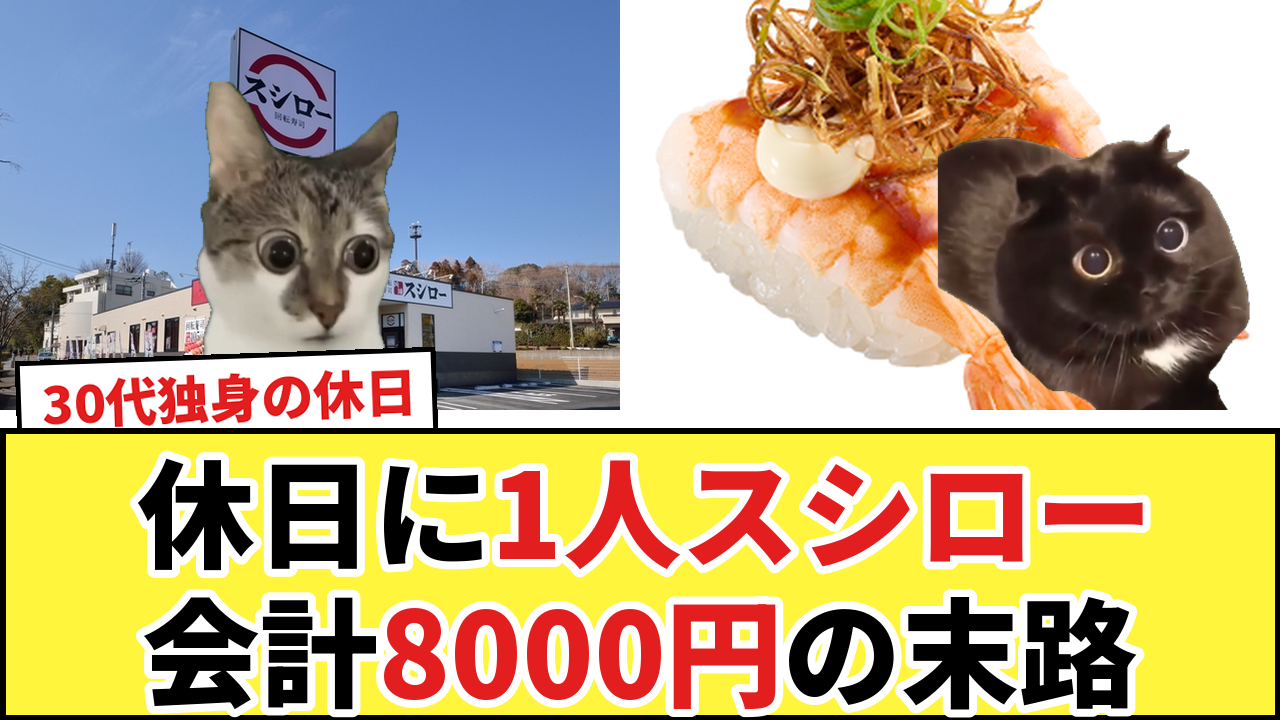
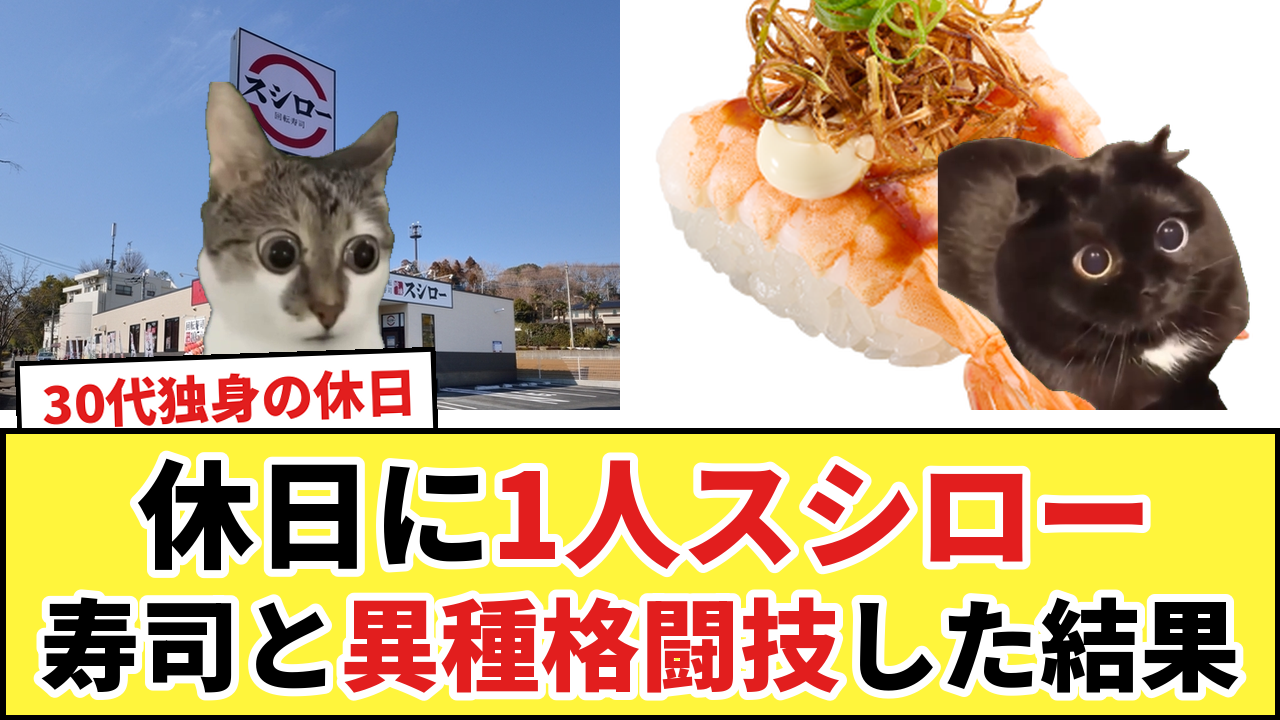
スシローのサムネA：2行目を「寿司と異種格闘技した結果」に
Claude-Session: https://claude.ai/code/session_011g9CsrfFD5YswfNSvNDW39

Changed region(s): [[0.0312, 0.7944, 1.0, 1.0]]

diff --git a/catmeme/make_thumb_escon_sushiro.py b/catmeme/make_thumb_escon_sushiro.py
@@ -48,7 +48,7 @@ def sushiro():
              ("stare_big_eyes_tabby_kitten", 0.6, 300, 410, 330, False),
              [("surprise_big_pupils_cat", 1.0, 1100, 410, 300, True)],
              "30代独身の休日",
-             [("休日に", BK), ("1人スシロー", R)], [("会計", BK), ("8000円", R), ("の末路", BK)], split=620, size=118)
+             [("休日に", BK), ("1人スシロー", R)], [("寿司と", BK), ("異種格闘技", R), ("した結果", BK)], split=620, size=118)   # 10/31 ユーザー指定
     T.type_b("jidaraku_04_sushiro_thumb_b.png",
              [("j01_room", [("angry_aiming_cat", 1.0, 160, 470, 300, False)]),
               ("f_kanimiso", [("happy_hamster_open_arms", 1.0, 160, 470, 300, False)]),
